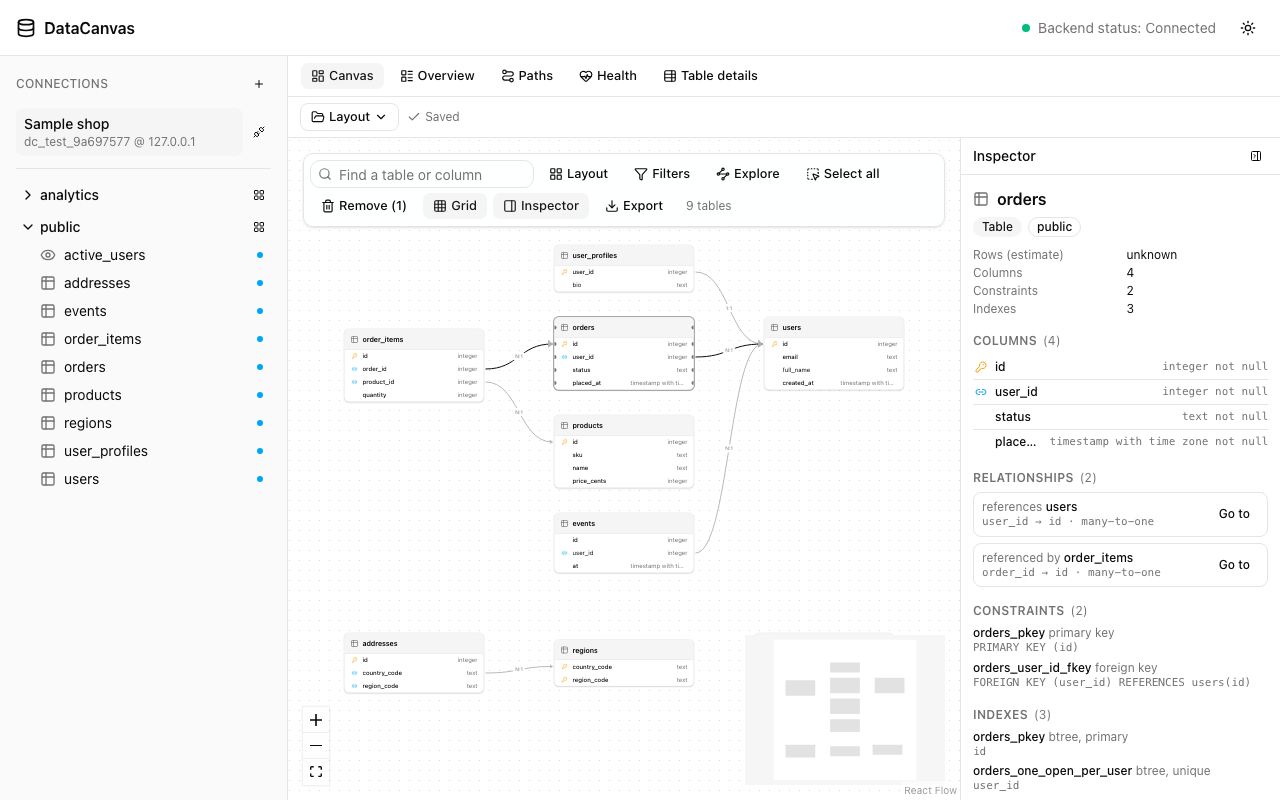
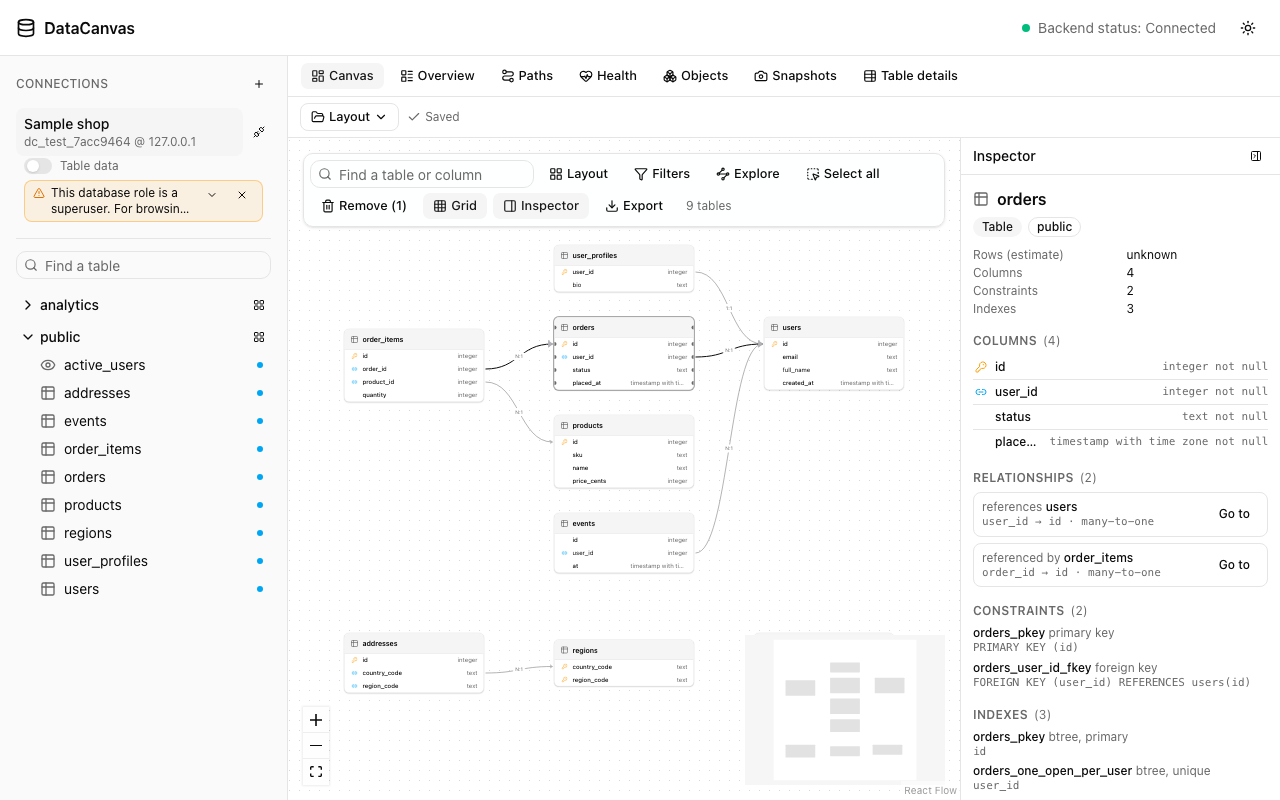
chore: release 1.5.0, screenshots and changelog (UI polish, U6)

diff --git a/apps/web/features/writes/writes-control.tsx b/apps/web/features/writes/writes-control.tsx
@@ -60,7 +60,7 @@ export function WritesControl({ connection }: { connection: ConnectionSummary })
           className="mt-0.5 size-3 shrink-0 text-amber-600 dark:text-amber-400"
           aria-hidden="true"
         />
-        <span id={noteId} className={cn("min-w-0 flex-1", !noteOpen && "truncate")}>
+        <span id={noteId} className={cn("min-w-0 flex-1", !noteOpen && "line-clamp-2")}>
           {noteText}
         </span>
         <Tip label={noteOpen ? "Show less" : "Show all"}>

diff --git a/docs/ui-polish-plan.md b/docs/ui-polish-plan.md
@@ -1,6 +1,6 @@
 # Plan: polishing the forms and the dashboard UI
 
-Status: **U0 to U5 built (2026-11-18); U6 not started.** See the progress notes after section 6. Requested 2026-11-18, after 1.4.0 shipped, as the work to do **before** new features: the edit forms do not look good and the spacing is uneven. This plan lists what is wrong, with evidence, and a small set of changes that fix it, in an order that ships useful improvements early. It is a UI-only plan: no route, no stored data and no behaviour of the database changes.
+Status: **All milestones built (2026-11-18); version 1.5.0, not published.** See the progress notes after section 6. Requested 2026-11-18, after 1.4.0 shipped, as the work to do **before** new features: the edit forms do not look good and the spacing is uneven. This plan lists what is wrong, with evidence, and a small set of changes that fix it, in an order that ships useful improvements early. It is a UI-only plan: no route, no stored data and no behaviour of the database changes.
 
 ## 1. Goal
 
@@ -113,6 +113,8 @@ Order: U0, U1, then U2 to U4 in any order (they only share U1), then U5. U1 to U
 **U4 (done).** The sidebar's unlocked state is one line: the "Writes on" badge, then a lock button and a changes button (28 px icon buttons with tooltips and the same accessible names as before). The read-mode role note is one truncated line with a button that expands it and one that dismisses it. The Data toolbar is a bordered bar in three groups (Paging; Actions; View, pushed right) and stays within two lines at 1280 and 900 px. The row actions are 32 px targets with a tooltip (`components/ui/tooltip.tsx`, `Tip`); a blocked row's reason is the tooltip and the button's description. The unlock dialog asks its question once (the title) and lists Database, Connected to, Server reports and Role in one table. Closes findings 16 to 18. The rules in `e2e/ui-forms.spec.ts` fail if the question or database name is repeated, if the badge and buttons wrap, if a button is under 28 px (row actions 32), if the toolbar needs more than two lines, or if a tooltip is missing. Not done: the compact bar was only checked at the 288 px sidebar width on desktop; phones are U5.
 
 **U5 (done).** Below 768 px the sidebar is a drawer (`components/layout/sidebar.tsx`, `stores/nav-store.ts`): a menu button in the header ("Open connections and tables", `mobile-nav-button.tsx`) slides it in over a dimmed page; picking a table or connection, Escape or a tap outside closes it. It is the same element as the desktop column, so connections and the tree exist once; closed it is `invisible`, so it is out of the tab order and hidden from screen readers. The view tabs scroll sideways with a fade at both edges, the Data toolbar is one scrolling row, and under 640 px every sized dialog is a full-screen sheet (`DialogContent`), with the footer still pinned. Closes finding 19. A browser test at 375 by 812 connects, opens the drawer, unlocks writes, finds a table, checks that the page never scrolls sideways, that the tabs and the toolbar scroll, and that the edit-row dialog fills the screen with Preview in view. Not done: the canvas, Overview, Paths, Health, Objects and Snapshots views were not checked on a phone, the dark theme was not looked at on a phone, and the connect dialog (unsized) was not made a sheet.
+
+**U6 (done).** README and guide screenshots regenerated (`npm run screenshots`), changelog entry for 1.5.0, version 1.5.0 in the root and CLI packages and the lockfile. The role note shows two lines, not one, after the regenerated screenshot showed one line hid the warning itself. Not published.
 
 Decisions taken for U1: native selects kept (decision 3); the widths and type scale above. Other dialogs (connect, export, forget) are unchanged apart from a footer that now also sticks.
 

diff --git a/CHANGELOG.md b/CHANGELOG.md
@@ -4,6 +4,21 @@ All notable changes are recorded here. The format follows [Keep a Changelog](htt
 
 ## [Unreleased]
 
+## [1.5.0] - 2026-11-18
+
+### Added
+
+- **DataCanvas works on a phone.** Below 768 px the sidebar is a drawer opened by a menu button in the header; picking a table or a connection closes it. The view tabs and the Data toolbar scroll sideways, and every form dialog is a full-screen sheet under 640 px.
+- A **"Changed" marker and a Reset button** on each field of the row editor, a footer that says how many columns changed (or why Preview is waiting), and **Ctrl or Cmd plus Enter** to preview from any field. Focus starts on the first editable column that is not the key.
+- Tooltips on the icon buttons of the sidebar and the row actions.
+
+### Changed
+
+- **The forms that change data were redone on shared pieces**: three dialog sizes (448, 640 and 768 px), one type scale (nothing under 12 px in a dialog), one spacing rhythm, and a footer that stays in view while the body scrolls. Values use a control that fits them (a switch for a boolean, a one-line field for a number or a date, a field that grows for long text); NULL and Default are small toggle buttons beside the field instead of radios. The add-row dialog no longer changes height as you work.
+- **The table builder** puts each column and foreign key on one grid with a header; "Array" and "Can be NULL" are toggle buttons; the heading shows the column count.
+- **The sidebar's writes bar** is one line (badge, lock, changes); the read-mode role note takes two lines and expands. The Data toolbar is grouped into paging, actions and view, and the row actions are 32 px targets. The unlock dialog says each thing once.
+- Muted text in light theme is darker, to reach the 4.5:1 contrast minimum.
+
 ## [1.4.0] - 2026-11-16
 
 ### Added
